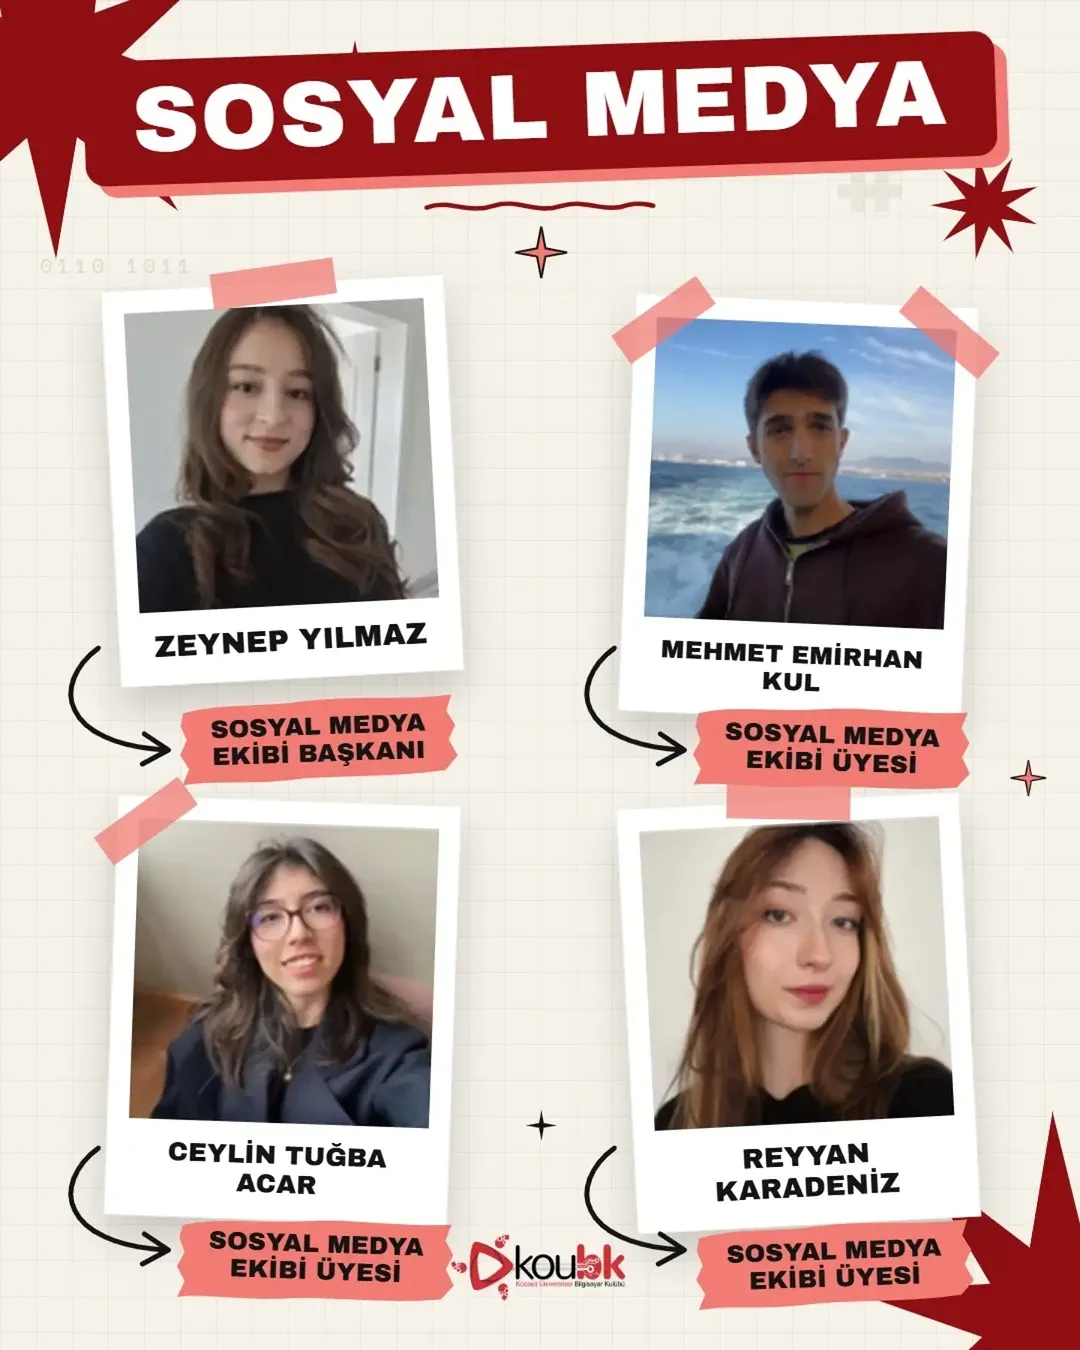
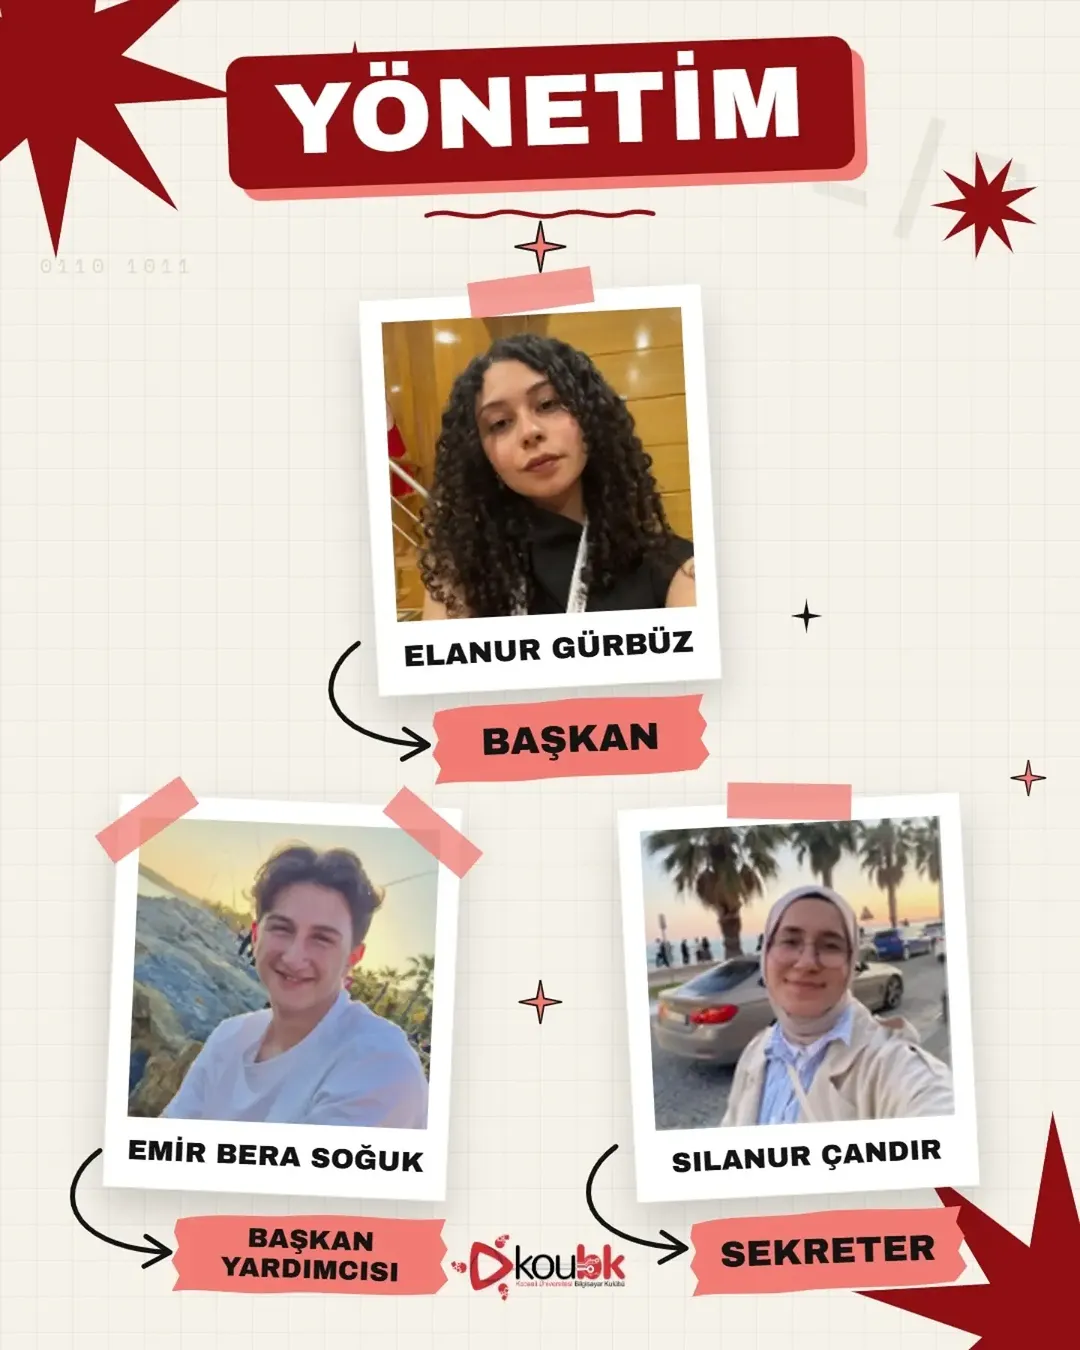
yeni resimler instadan çekildi ve eklendi

diff --git a/index.html b/index.html
@@ -231,34 +231,34 @@
       </p>
 
       <div class="team-grid-bh">
-        <!-- Ekip Kapak / Genel Bakış -->
+        <!-- 1. Ekip Kapak -->
         <div class="team-card-bh">
           <img src="assets/img/team/team-cover.jpeg" alt="2026-2027 Yönetim Ekibi Tanıtımı" loading="lazy">
           <div class="team-card-badge">2026-2027 YÖNETİM EKİBİ</div>
         </div>
 
-        <!-- Başkan & Başkan Yrd -->
+        <!-- 2. Yönetim Ekibi -->
         <div class="team-card-bh">
-          <img src="assets/img/team/team-baskan.jpeg" alt="Başkan: Emir Bera Soğuk & Başkan Yrd: Elanur Gürbüz" loading="lazy">
-          <div class="team-card-badge">BAŞKAN & BAŞKAN YARDIMCISI</div>
+          <img src="assets/img/team/team-baskan.jpeg" alt="Yönetim Ekibi" loading="lazy">
+          <div class="team-card-badge">YÖNETİM EKİBİ</div>
         </div>
 
-        <!-- Genel Sekreter & Kurumsal İletişim -->
+        <!-- 3. Sosyal Medya Ekibi -->
         <div class="team-card-bh">
-          <img src="assets/img/team/team-sekreter.jpeg" alt="Genel Sekreter & Kurumsal İletişim Ekibi" loading="lazy">
-          <div class="team-card-badge">GENEL SEKRETER & KURUMSAL İLETİŞİM</div>
+          <img src="assets/img/team/team-sosyal-medya.jpeg" alt="Sosyal Medya Ekibi" loading="lazy">
+          <div class="team-card-badge">SOSYAL MEDYA EKİBİ</div>
         </div>
 
-        <!-- Etkinlik Ekibi -->
+        <!-- 4. Etkinlik Ekibi -->
         <div class="team-card-bh">
           <img src="assets/img/team/team-etkinlik.jpeg" alt="Etkinlik Ekibi" loading="lazy">
           <div class="team-card-badge">ETKİNLİK EKİBİ</div>
         </div>
 
-        <!-- Sosyal Medya Ekibi -->
+        <!-- 5. Kurumsal İletişim Ekibi -->
         <div class="team-card-bh" style="grid-column: 1 / -1; max-width: 500px; margin: 0 auto; width: 100%;">
-          <img src="assets/img/team/team-sosyal-medya.jpeg" alt="Sosyal Medya Ekibi" loading="lazy">
-          <div class="team-card-badge">SOSYAL MEDYA EKİBİ</div>
+          <img src="assets/img/team/team-sekreter.jpeg" alt="Kurumsal İletişim Ekibi" loading="lazy">
+          <div class="team-card-badge">KURUMSAL İLETİŞİM</div>
         </div>
       </div>
     </section>
